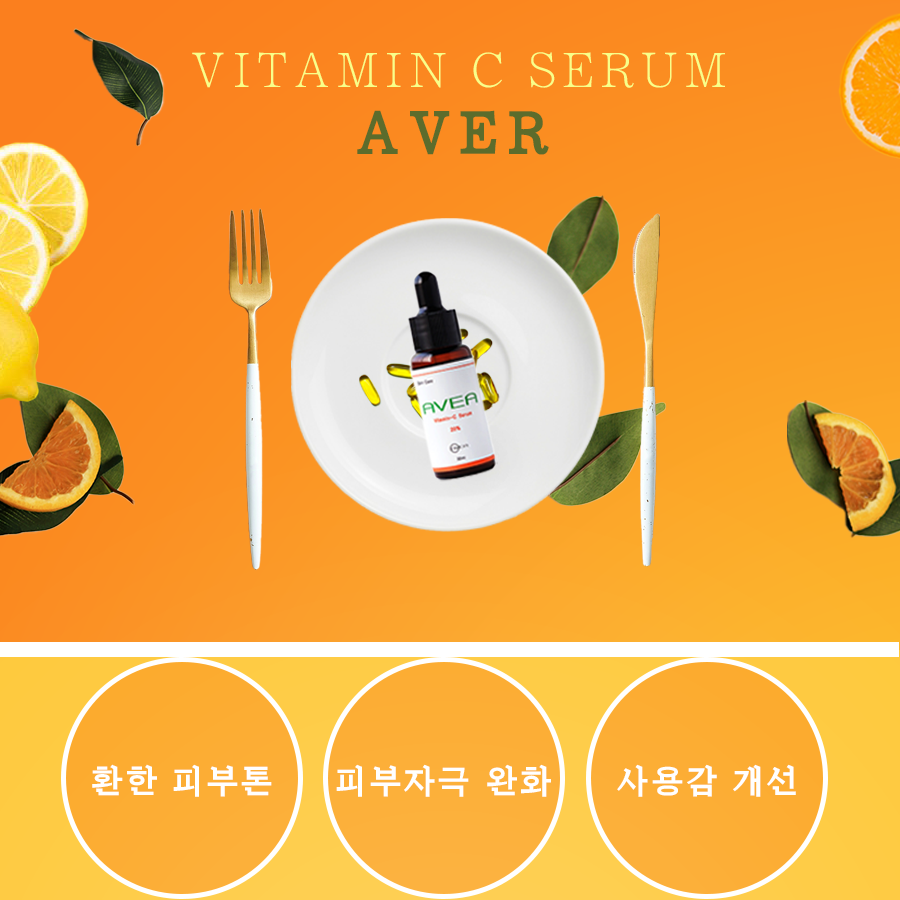
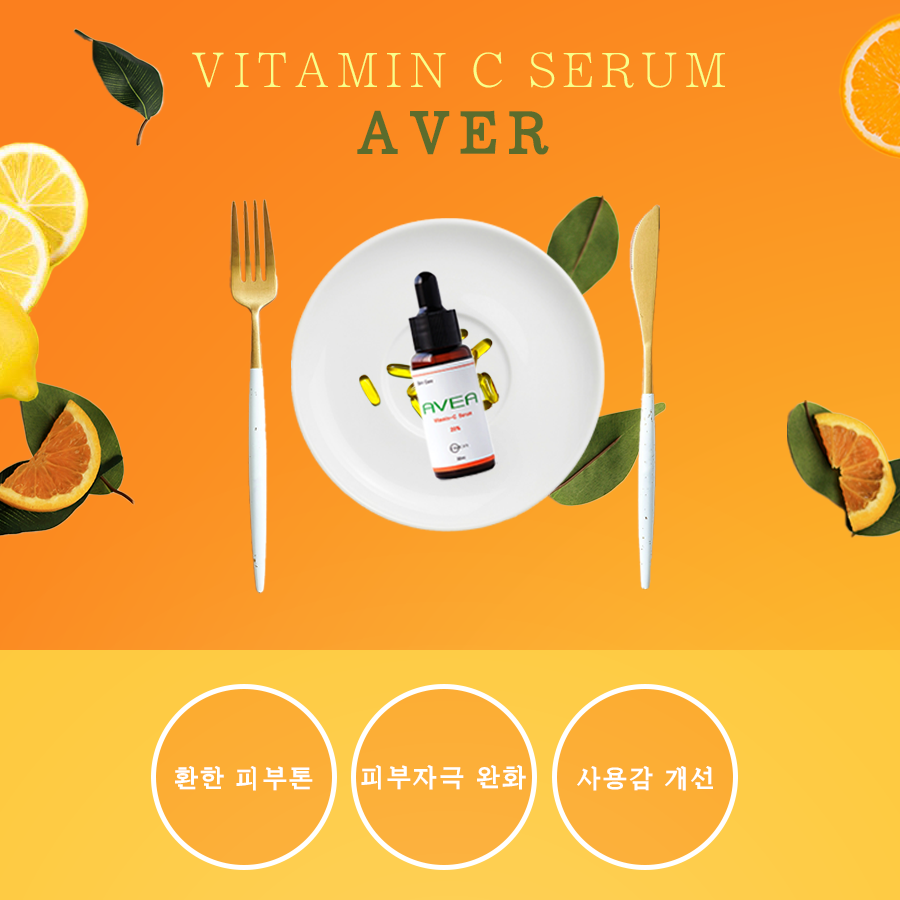
디자인

diff --git a/style/portfolio.css b/style/portfolio.css
@@ -168,7 +168,7 @@ main .wrap .project {
     margin: 100px 0;
 }
 main .wrap .project h1 {
-    color: #776B5D; font-weight: 600; font-size: 4rem; text-align: center; margin-bottom: 45px;
+    color: #776B5D; font-weight: 600; font-size: 4rem; margin-bottom: 15px;
     float: left; margin-left: 30px;
 }
 main .wrap .project .swiper-container {
@@ -233,7 +233,7 @@ main .wrap .project .swiper-container .swiper-wrapper .swiper-slide .container .
     font-size: 1.25rem; font-weight: 600; color:#B06161;
 }
 main .wrap .project .swiper-container .btn {
-    position: absolute; left: 50%; bottom: 150px;
+    position: absolute; left: 50%; bottom: 175px;
     transform: translateX(-50%);
 }
 main .wrap .project .swiper-container .btn #pause {
@@ -246,7 +246,7 @@ main .wrap .project .swiper-container .btn button:hover {
     color: #B06161;
 }
 main .wrap .project .swiper-container .result_btn {
-    position: absolute; left: 63%; top: 100px;
+    position: absolute; left: 63%; top: 0;
     transform: translateX(-50%); cursor: none;
 }
 main .wrap .project .swiper-container .result_btn a {
@@ -266,7 +266,7 @@ main .wrap .project .swiper-container .swiper-button-next {
     color: #776B5D; left: auto; z-index: 999;
 }
 main .wrap .project .swiper-container .swiper-pagination {
-    bottom: 95px; font-weight: 700; 
+    bottom: 120px; font-weight: 700; 
 }
 main .wrap .design {}
 main .wrap .design h2 {

diff --git a/main.html b/main.html
@@ -228,7 +228,7 @@
             <section class="design section">
                 <h2>design</h2>
                 <div class="project_photo">
-                    <img src="./images/photo/BBCream8.png" alt="">
+                    <img src="./images/photo/BB Cream.png" alt="">
                     <img src="./images/photo/VitaminCSerum.png" alt="">
                     <img src="./images/photo/facialCream.png" alt="">
                 </div>
